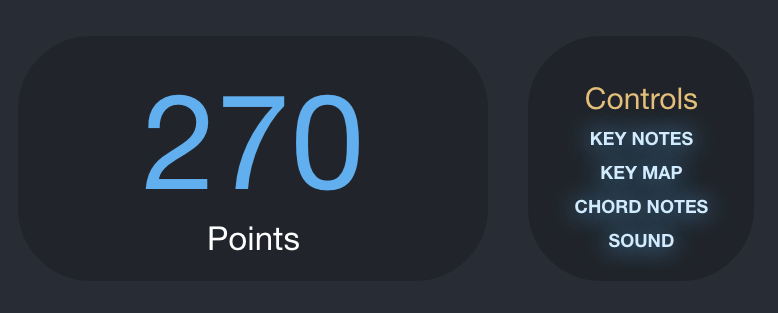
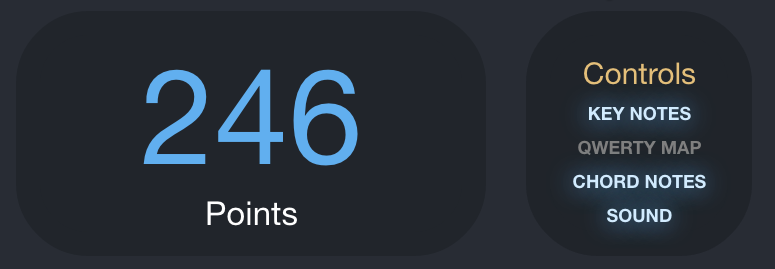
Update Readme for MIDI compatibility

diff --git a/README.md b/README.md
@@ -9,9 +9,12 @@ ChordWars is single page browser game designed for music education.  Upon starti
 ## Features & Implementation
 
 
-### Single-Page App
 
-  ChordWars is a single page app that renders everything within one element on the root page using React.js.  Each of the components behave in different ways according to various independent states.
+### MIDI Hardware Compatible
+  ChordWars implements the WebMidi API to allow for a true music education experience for students.  By allowing keyboard compatibility, ChordWars extends beyond just a game, and actually works to develop rote memorization of chord notes, and positions.  Using a USB midi controller is seamless.  Installation just requires the page is refreshed while the controller is plugged in.  If the device is recognized, the model and manufacturer will appear in the top left corner, and the QWETRY map will automatically be turned off.
+
+
+![hardware](docs/midi-controller.png)
 
 ### Responsive and Beautiful UI.
 
@@ -57,5 +60,6 @@ ChordWars is single page browser game designed for music education.  Upon starti
   And the end of game-play the user is prompted to either play again, or check out the github repository
 ![end-modal](docs/end-modal.png)
 
+
 ### Next Steps
-  The next phase of developing ChordWars is to enable MIDI hardware compatibility, and synthesizer options using the WebAudio and WebMIDI API's.
+  The next phase of developing ChordWars extend beyond a game and introduce a whole interactive music learning center based on Codecademy.  The possibilities of providing an entertaining learning experience for piano and keyboard students are endless given the new MIDI capabilities in browsers.
